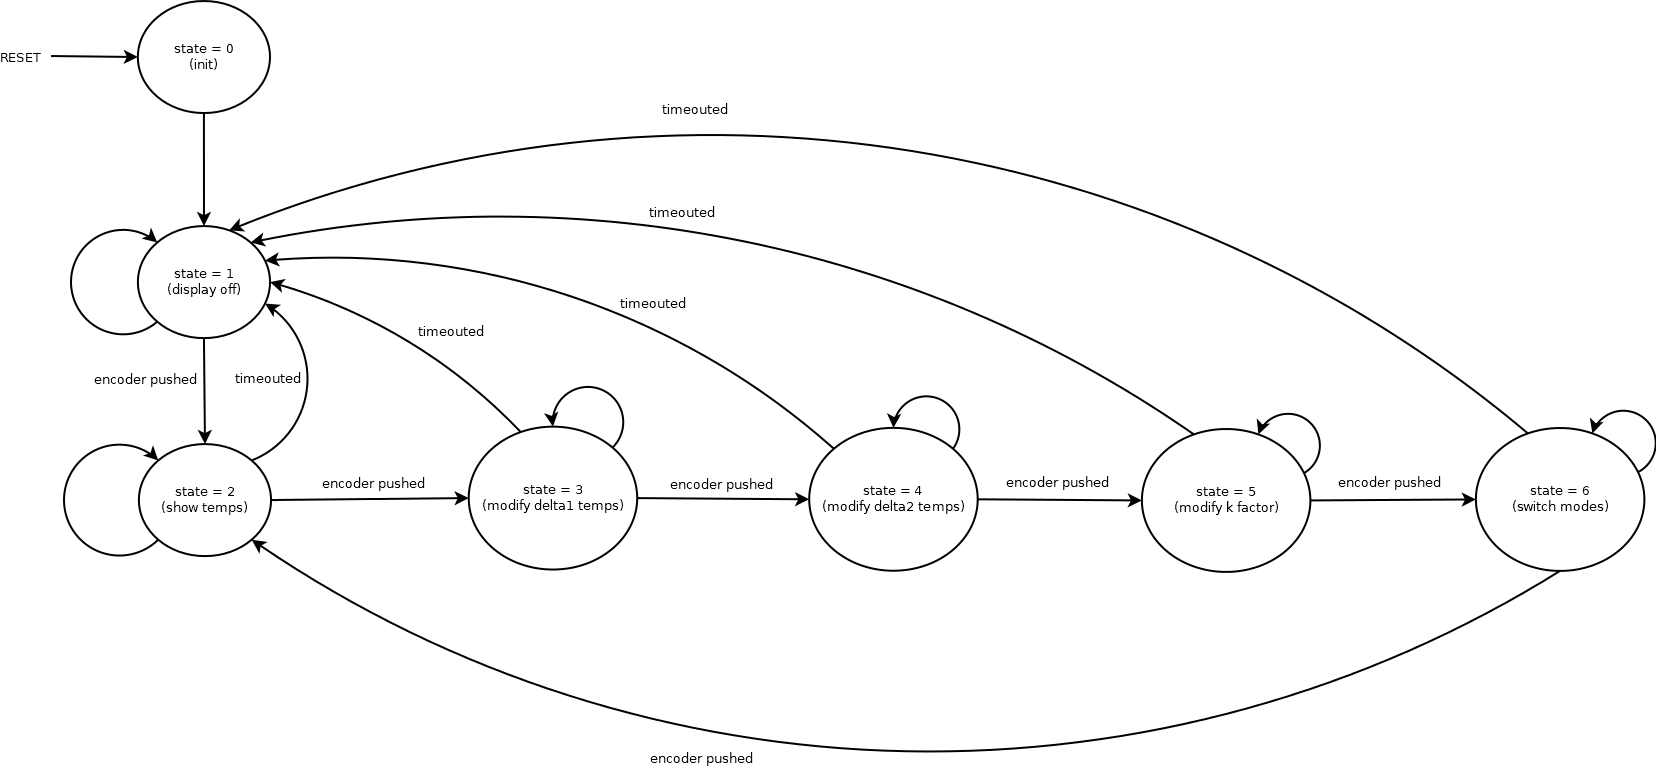
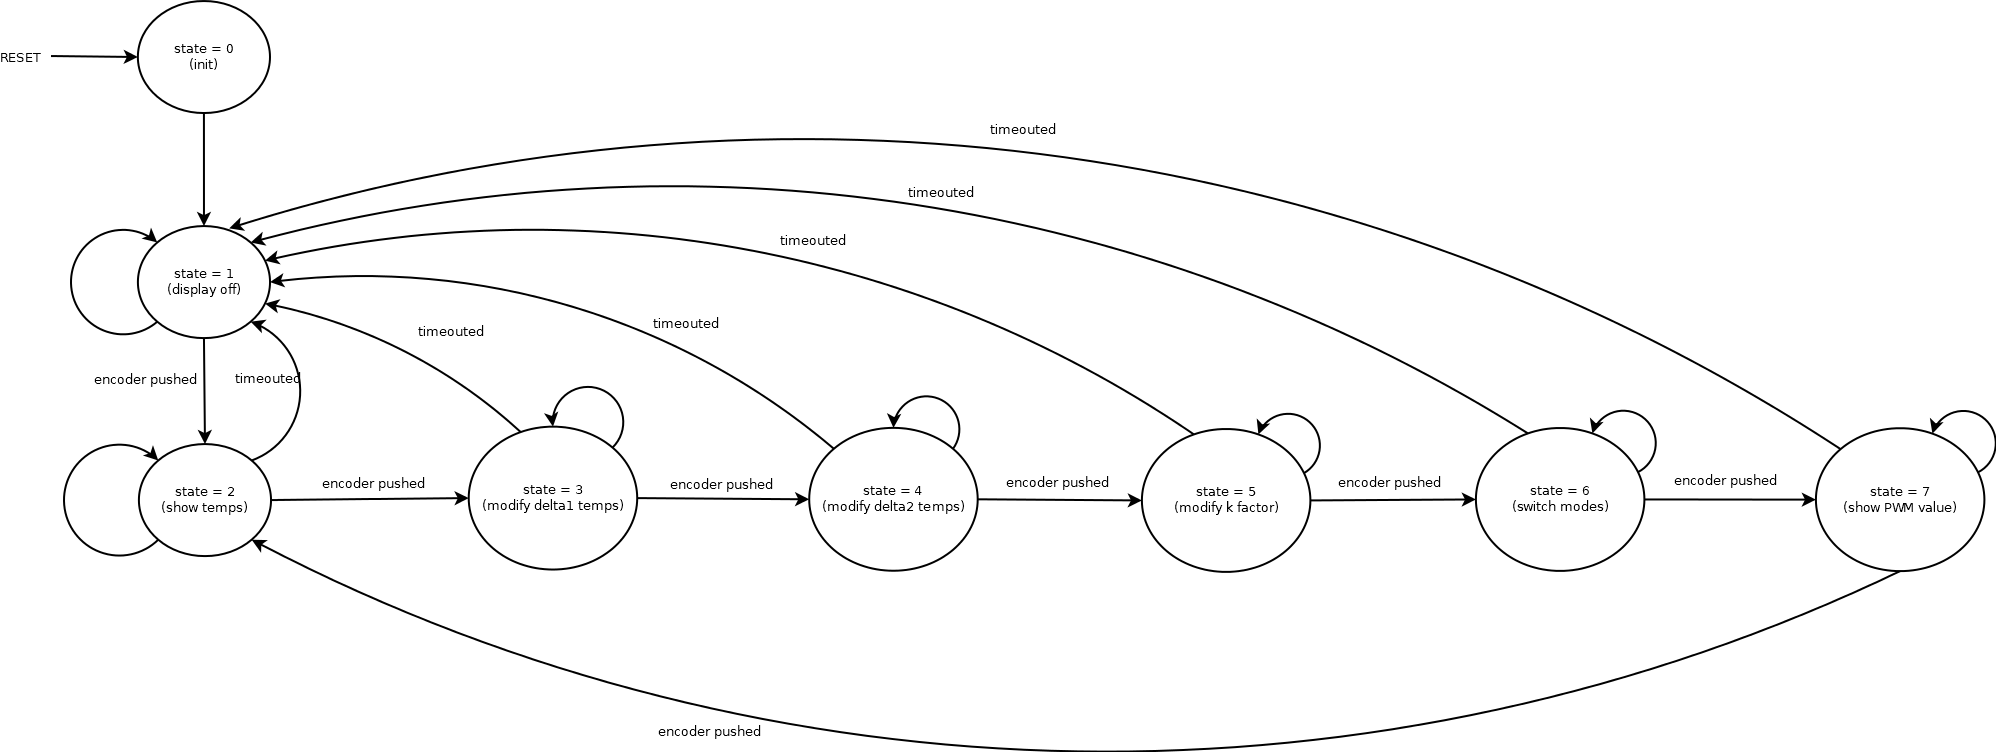
Fixed display set functions; Added display of current PWM duty cicle

diff --git a/7seg.c b/7seg.c
@@ -16,8 +16,10 @@ uint8_t patterns[] = {0x3F, 0x06, 0x5B, 0x4F, 0x66, 0x6D, 0x7D, 0x07, 0x7F, 0x6F
 				   //  0     1      2    3     4     5     6     7     8    9      10     11   12   13     14    15   16    17
 uint16_t segs[6] = {0, 0, 0, 0, 0, 0};
 uint8_t seg_cnt = 0;
-uint16_t dach_anzeige = 0;
-uint16_t kessel_anzeige = 0;
+uint16_t dach_anzeige_d = 0;
+uint16_t kessel_anzeige_d = 0;
+float dach_anzeige_f = 0.0f;
+float kessel_anzeige_f = 0.0f;
 uint8_t dach_isFloat = 0;		//flags the value at display 1 as float (DP at the left segment will be switched on)
 uint8_t kessel_isFloat = 0;		//flags the value at display 0 as float (DP at the left segment will be switched on)
 uint8_t on = 0;
@@ -38,19 +40,31 @@ void SevenSeg_set_val(uint8_t seg, int16_t val)
 	if(seg == 1)												
 	{
 		dach_isFloat = 0;
-		if (val == dach_anzeige)								//if the value to set is not new, leave function
+		if (val == dach_anzeige_d)								//if the value to set is not new, leave function
 		{
 			return;
 		}
+		else
+		{
+			dach_anzeige_d = val;
+		}
+		dach_isFloat = 0;
+		dach_anzeige_d = 1001.0f; //explanation: see SevenSeg_set_val_f(...). Same problem, other way round
 	}
 	
 	else if(seg == 0)		
 	{
 		kessel_isFloat = 0;
-		if(val == kessel_anzeige)								//if the value to set is not new, leave function
+		if(val == kessel_anzeige_d)								//if the value to set is not new, leave function
 		{
 			return;
 		}
+		else
+		{
+			kessel_anzeige_d = val;
+		}
+		kessel_isFloat = 0;
+		kessel_anzeige_d = 1001.0f; //explanation: see SevenSeg_set_val_f(...). Same problem, other way round
 	}
 	
 	if(val==1000)												//if this display shall be switched off
@@ -95,20 +109,30 @@ void SevenSeg_set_val_f(uint8_t seg, float val)
 {		
 		if(seg == 1)
 		{			
-			if ((val == dach_anzeige) && (dach_isFloat == 1))		//if the value to set is not new, leave function
+			if ((val == dach_anzeige_f) && (dach_isFloat == 1))		//if the value to set is not new, leave function
 			{
 				return;
 			}
+			else
+			{
+				dach_anzeige_f = val;
+			}
 			dach_isFloat = 1;
+			dach_anzeige_d = 1001; //if directly before this function call SevenSeg_set_val(...) was called e.g. to set roof to decimal 1, and it is called again after this function call with 1 for roof again, the 1 is never displayed, because the function call here did not change dach_anzeige_d. So set it to impossible value
 		}
 		
 		else if(seg == 0)
 		{
-			if ((val == kessel_anzeige) && (kessel_isFloat == 1))		//if the value to set is not new, leave function
+			if ((val == kessel_anzeige_f) && (kessel_isFloat == 1))		//if the value to set is not new, leave function
 			{
 				return;
 			}
+			else
+			{
+				kessel_anzeige_f = val;
+			}
 			kessel_isFloat = 1;
+			kessel_anzeige_d = 1001;
 		}
 		
 		if(val==1000)												//if this display shall be switched off

diff --git a/main.c b/main.c
@@ -183,6 +183,23 @@ int main(void)
 				break;
 			}
 			
+			case SHOW_PWM:
+			{
+				volatile uint8_t pwm = get_PWM();
+				SevenSeg_set_val(DISPLAY_DACH, pwm);
+				SevenSeg_set_val(DISPLAY_KESSEL, 1000);
+				
+				if(SevenSeg_get_state() == 0)						//enable display only if it is off
+				{
+					SevenSeg_on();
+				}
+				
+				extGPOS_clearAllLEDs();
+				extGPO_update();
+				
+				break;	
+			}
+			
 			default:
 			{
 				setState(INIT);

diff --git a/regulator.h b/regulator.h
@@ -18,6 +18,7 @@ uint8_t get_delta(uint8_t i_);
 int16_t get_temp(uint8_t sensor);
 int16_t measure_temp(uint8_t sensor);
 void set_PWM(uint8_t duty);
+uint8_t get_PWM();
 float get_k(void);
 void set_k(float f);
 uint8_t get_current_mode(void);

diff --git a/encoder.c b/encoder.c
@@ -194,6 +194,13 @@ ISR(INT1_vect)  //if the encoder got pushed
 				}
 			}
 			
+			setState(SHOW_PWM);
+			start_timeout_timer();
+			break;
+		}
+		
+		case SHOW_PWM:
+		{
 			setState(SHOW_TEMPS);
 			break;
 		}

diff --git a/regulator.c b/regulator.c
@@ -190,6 +190,10 @@ void set_PWM(uint8_t duty)
 	OCR2 = (uint8_t)((duty/100.0f)*255);
 }
 
+uint8_t get_PWM()
+{
+	return duty;
+}
 
 float get_k()
 {

diff --git a/version.h b/version.h
@@ -1,2 +1,2 @@
-#define REPO_VERSION_HASH "d3b7f0f" 
-#define FW_VERSION_TAG "Rev.B" 
+#define REPO_VERSION_HASH "" 
+#define FW_VERSION_TAG "" 

diff --git a/main.h b/main.h
@@ -17,7 +17,8 @@ enum state
 	MODIFY_DELTA1,
 	MODIFY_DELTA2,
 	MODIFY_K,
-	SWITCH_MODES
+	SWITCH_MODES,
+	SHOW_PWM
 };
 
 enum display
